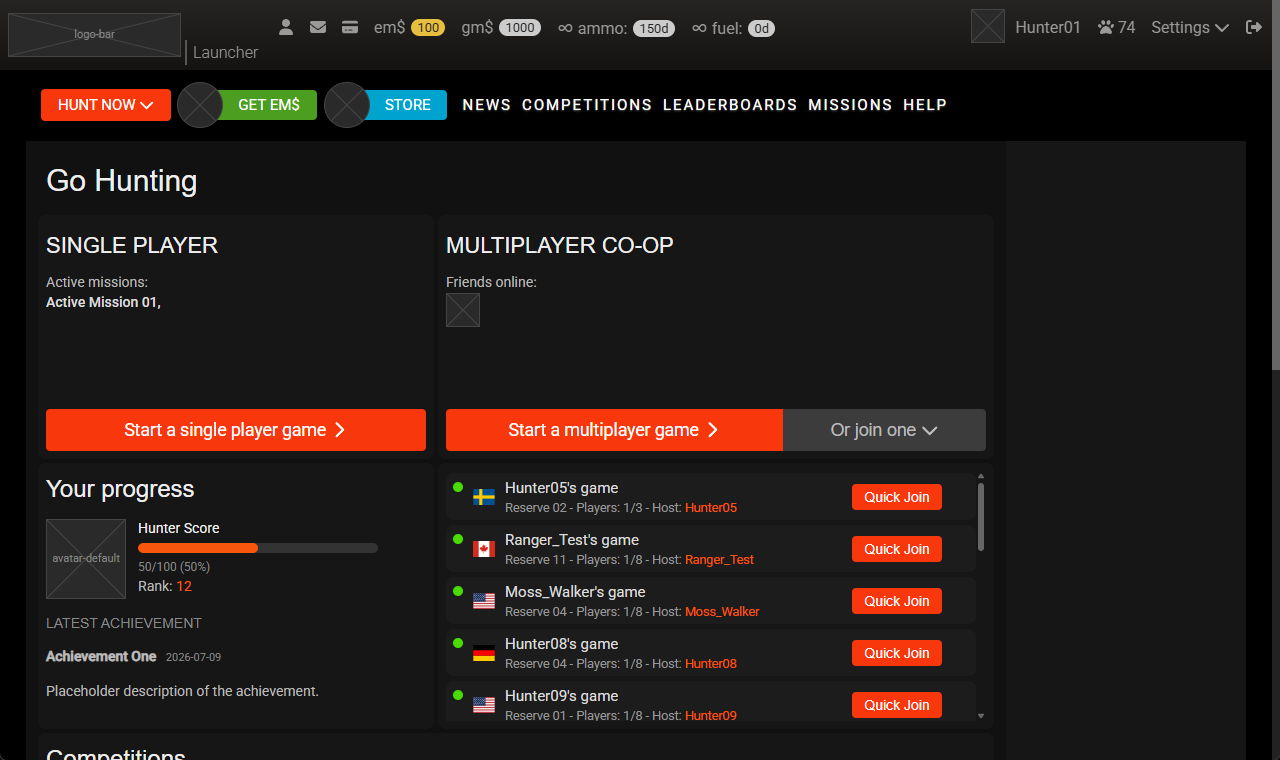
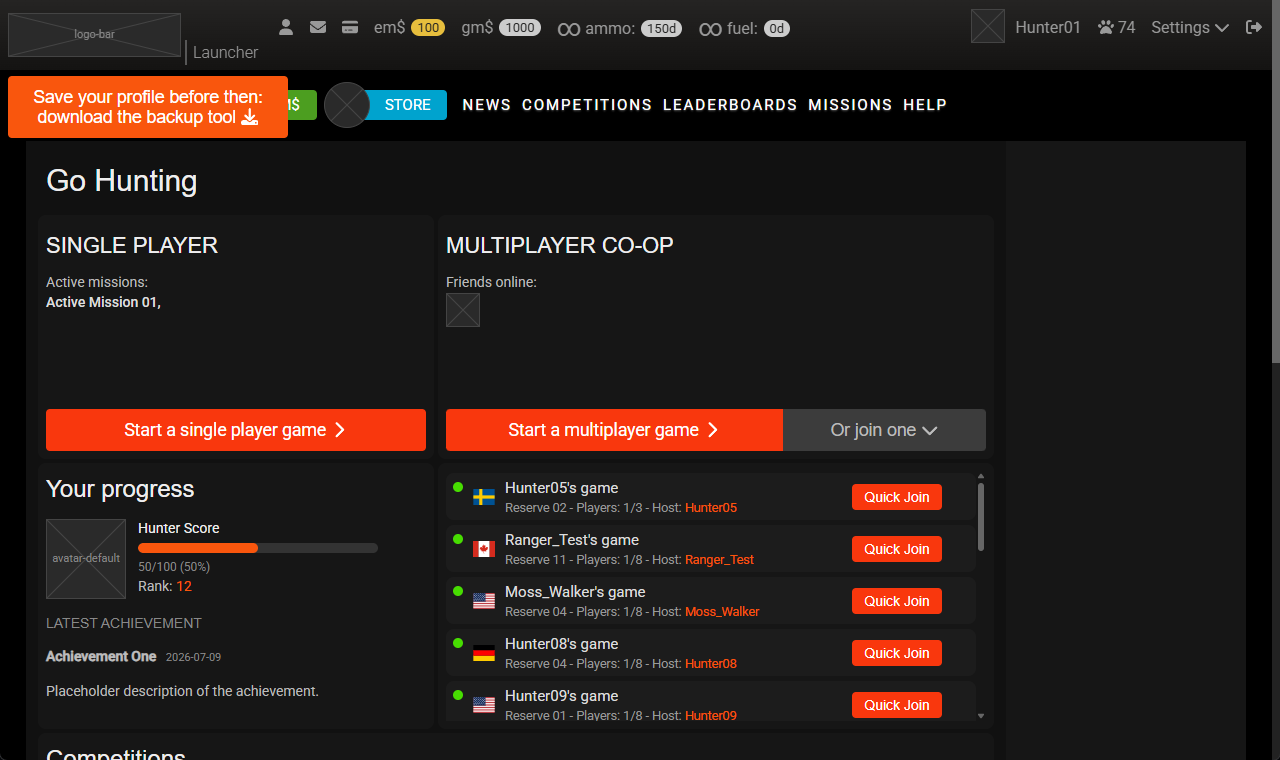
docs: retake the README screenshots, add the website's (#190)

Changed region(s): [[0.0, 0.0908, 0.25, 0.1816], [0.4375, 0.0303, 0.625, 0.0605]]

diff --git a/docs/backup.md b/docs/backup.md
@@ -157,9 +157,9 @@ If the API refuses the token (it is valid for 15 minutes), the backup tool says 
 
 ## Claim key
 
-On first run the backup tool writes 32 random bytes to `%APPDATA%\game-backup\claim.key`: the key is made once per PC and kept there. Every backup folder and backup zip contains that file as `claim.key`, so every backup made on one PC contains the same key, and two backup zips with the same `claim_hash` came from the same PC. `manifest.json` records only its SHA-256 as `claim_hash`. The key is a hint, not proof: anyone who has the backup zip has the key. Together with the Steam account it is what a future restore uses as a hint that the backup is yours (keep the backup zip private, see [Privacy](#privacy)).
+On first run the backup tool writes 32 random bytes to `%APPDATA%\game-backup\claim.key`: the key is made once per PC and kept there. Every backup folder and backup zip contains that file as `claim.key`, so every backup made on one PC contains the same key, and two backup zips with the same `claim_hash` came from the same PC. `manifest.json` records only its SHA-256 as `claim_hash`. The key is a hint, not proof: anyone who has the backup zip has the key. Together with the Steam account it is what a restore uses as a hint that the backup is yours (keep the backup zip private, see [Privacy](#privacy)).
 
-The first restore will be local: a server on your own PC reads your own backup zip. A community server is planned after that, with Steam sign-in first (email sign-in may follow). The Steam account recorded in the backup links it to your sign-in. These are hints, not proof: if two people claim the same profile, the claim may be reviewed.
+On the community server you sign in with Steam (email sign-in may follow) and send your backup zip with ["Send to the community server"](#send-to-the-community-server) or upload it on the website's restore page. An operator checks every zip by hand before anything is restored, and sees whether the Steam account recorded in the backup is the one you signed in with. These are hints, not proof: if two people claim the same profile, the operator decides. A server on your own PC restores a backup zip with `import backup` ([server.md](server.md#import-a-backup-zip)).
 
 ## Tests
 

diff --git a/README.md b/README.md
@@ -21,6 +21,8 @@ The backup tool is a small Windows app that saves your profile (statistics, inve
 2. Start `backup.exe`. For your own account, open the game and start a hunt (the backup tool can be open before or after); or choose "Public profile" and type a handle or id.
 3. Tick what to save, press Start. The result is a backup folder and a backup zip in `Documents\game-backup` ([names](docs/backup.md#what-is-saved)). Keep that backup zip private.
 
+"Check connection" says whether the official servers answer. If it says "redirected", the [player kit](#for-players-the-player-kit) is installed: remove it (`3-remove.cmd`) before a backup, because the backup tool needs the official servers.
+
 **Windows SmartScreen.** The exe is not code-signed, so Windows may show "Windows protected your PC / Unknown publisher". Choose **More info**, then **Run anyway**.
 
 The source is public, and you can check in a minute that your download is the real one: compare its checksum, as in [checking the download](docs/backup.md#checking-the-download).
@@ -62,6 +64,10 @@ Released today: the backup tool, and the player kit, which lets you play on the 
 ### Website preview
 
 [hunter-resurgence.com](https://hunter-resurgence.com) shows the new website. Two parts are real: sign-in with Steam, and the restore page, where a signed-in player can upload a backup zip for the operator's review. The server keeps your Steam id, your handle and every zip you upload; the "Your data" page in the footer says what it keeps and how to delete it. Every other page shows fixed, fictional data, and pictures are the operator's own where it has them, labelled boxes elsewhere (the repository holds none; [docs/images.md](docs/images.md)). Works in a current Chrome or Edge. Details: [docs/website.md](docs/website.md).
+
+![The website preview, signed out](docs/img/website.png)
+
+*The website: sample data, placeholder images.*
 
 ### Launcher preview
 
